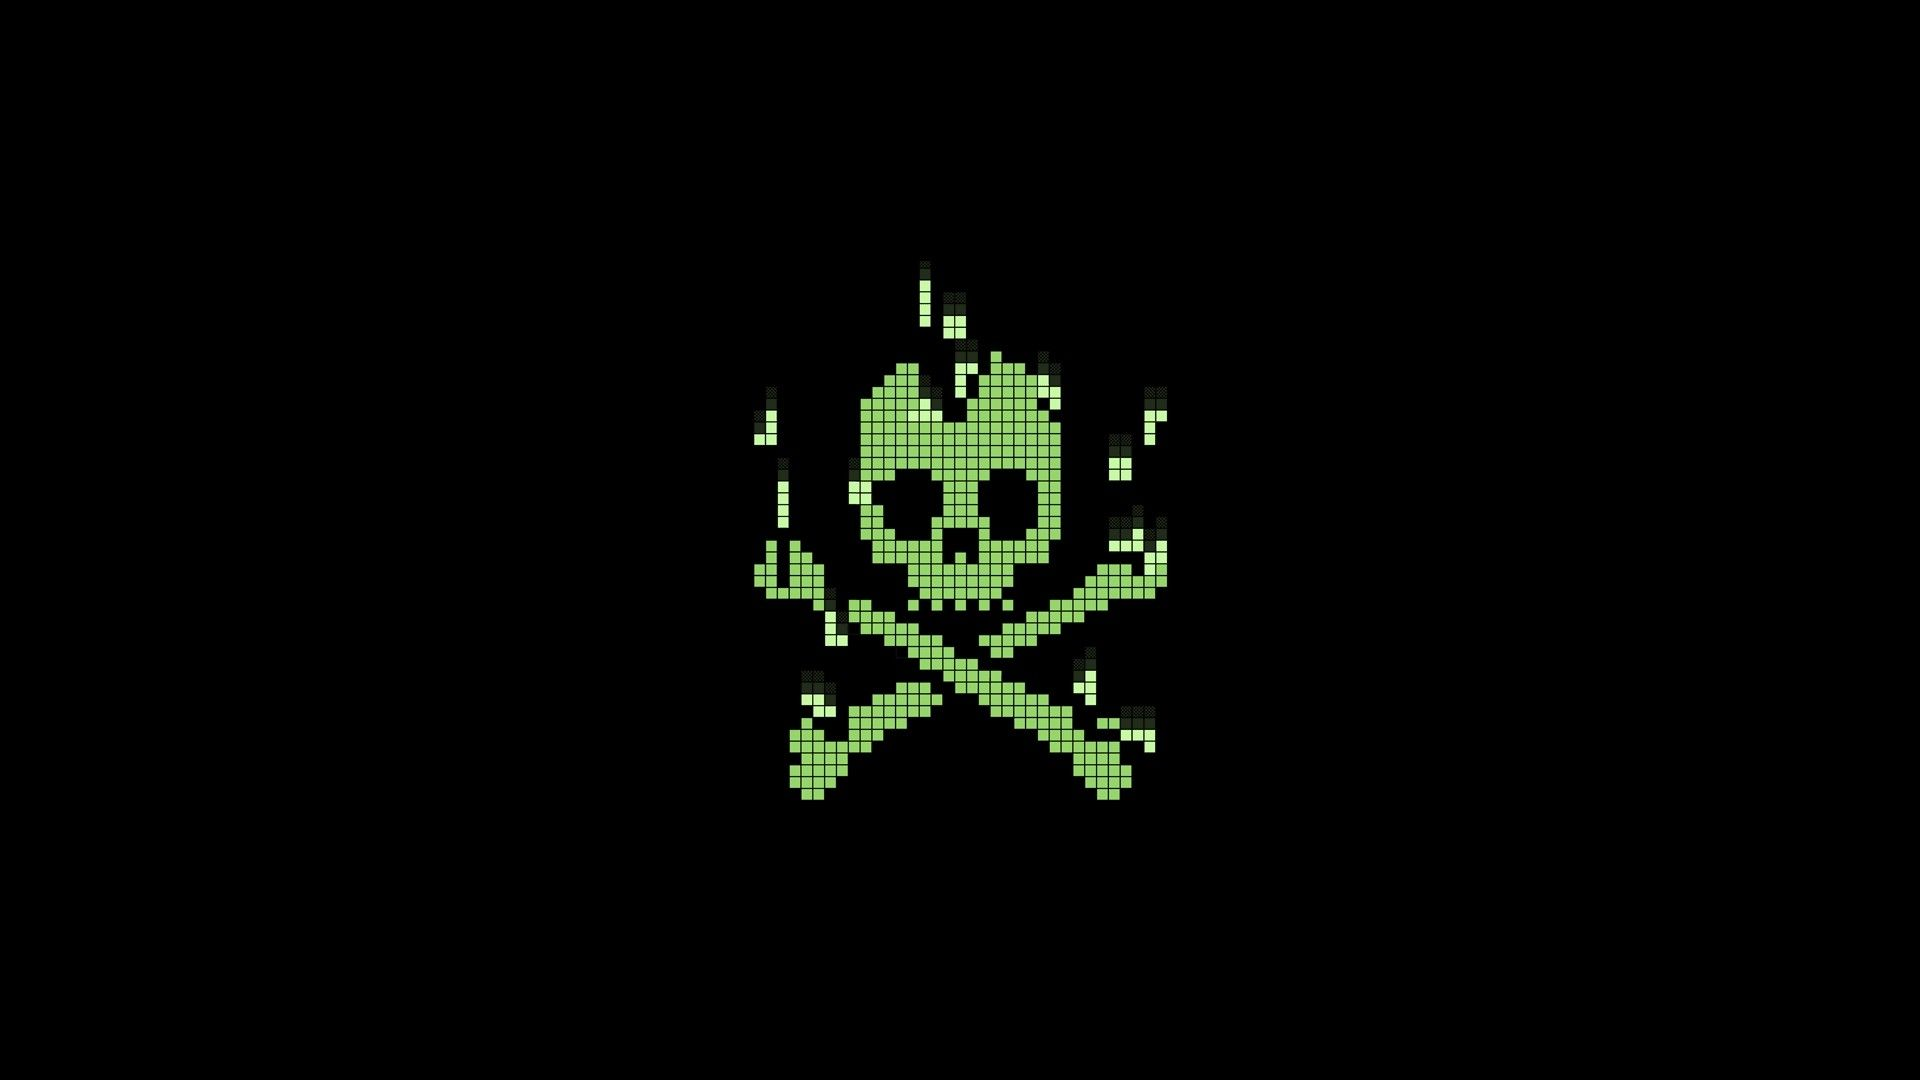
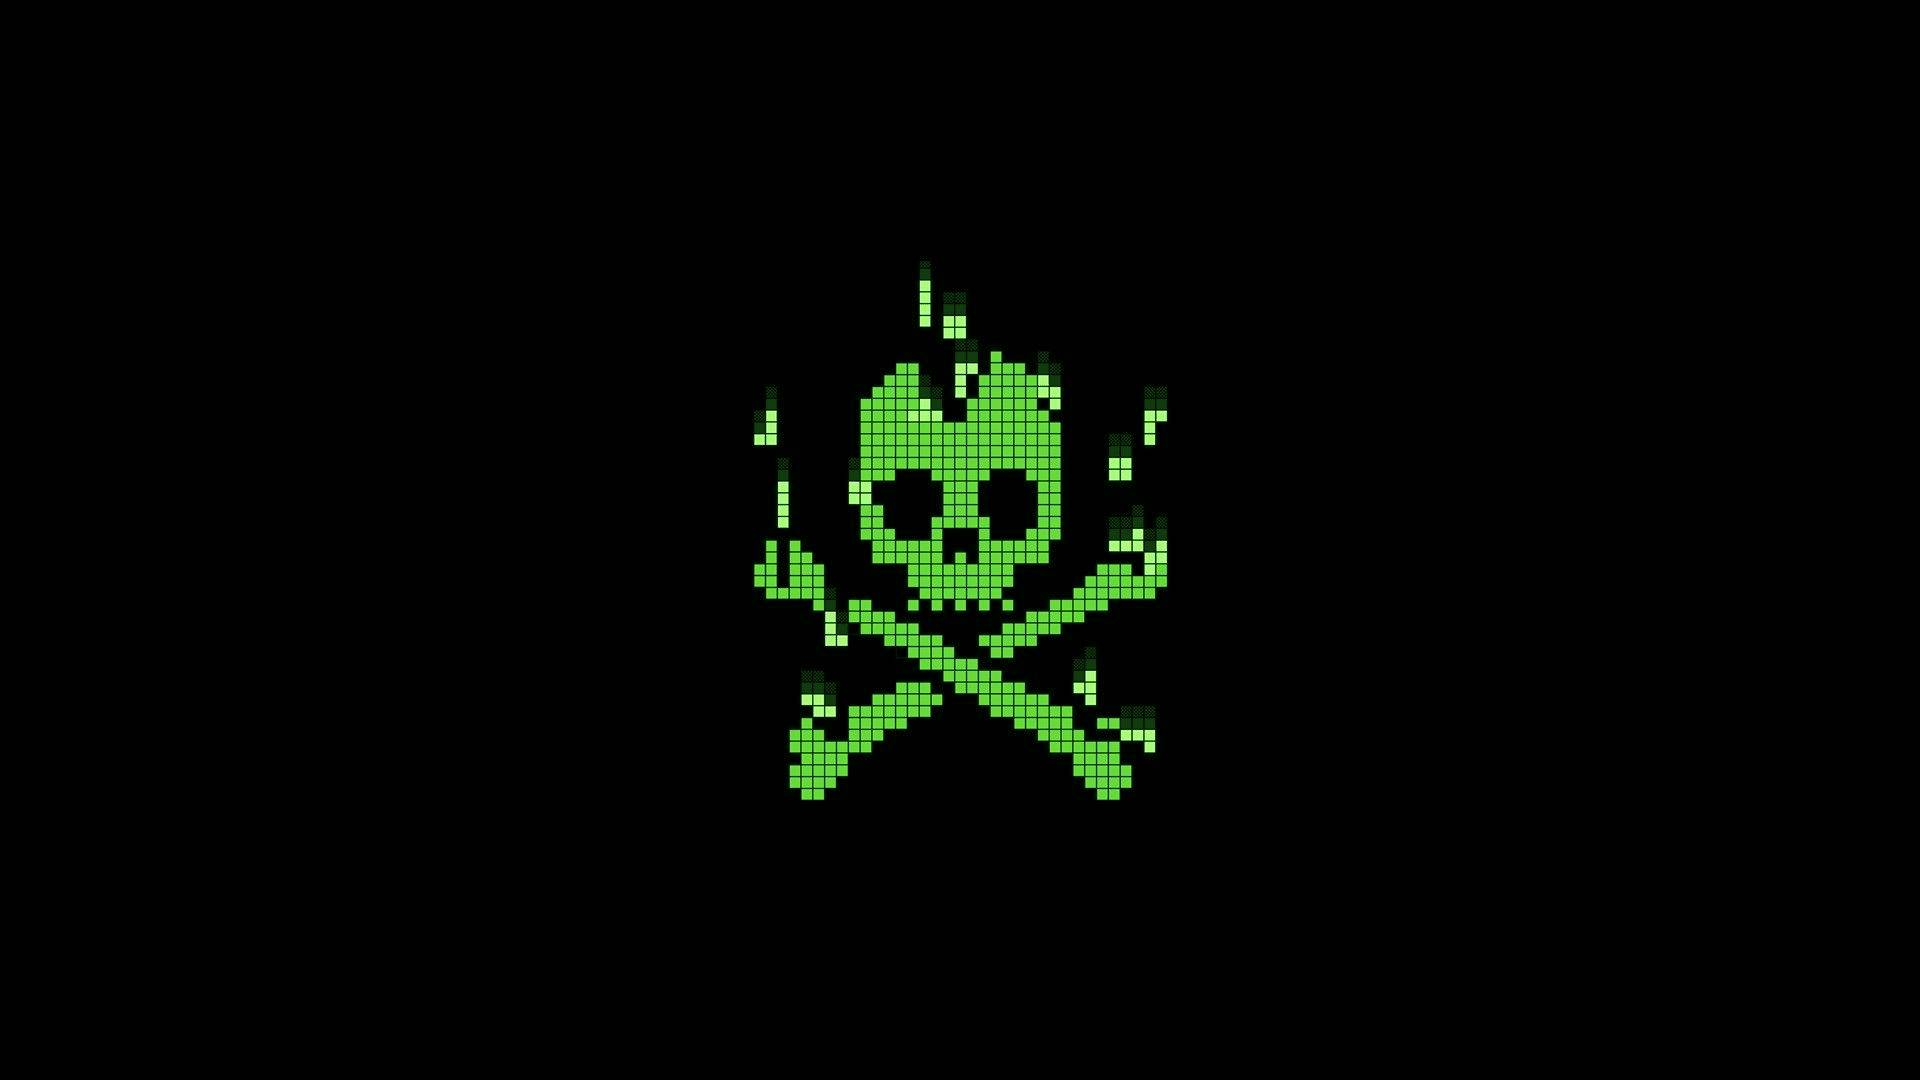
better green and port

diff --git a/index.js b/index.js
@@ -1,7 +1,7 @@
 const express = require('express')
 const app = express()
 const path = require('path')
-const port = 3000
+const port = process.env.PORT || 3000
 
 function getEncoded() {
   const { USR, PWD, DUMMY_USR, DUMMY_PWD } = process.env
